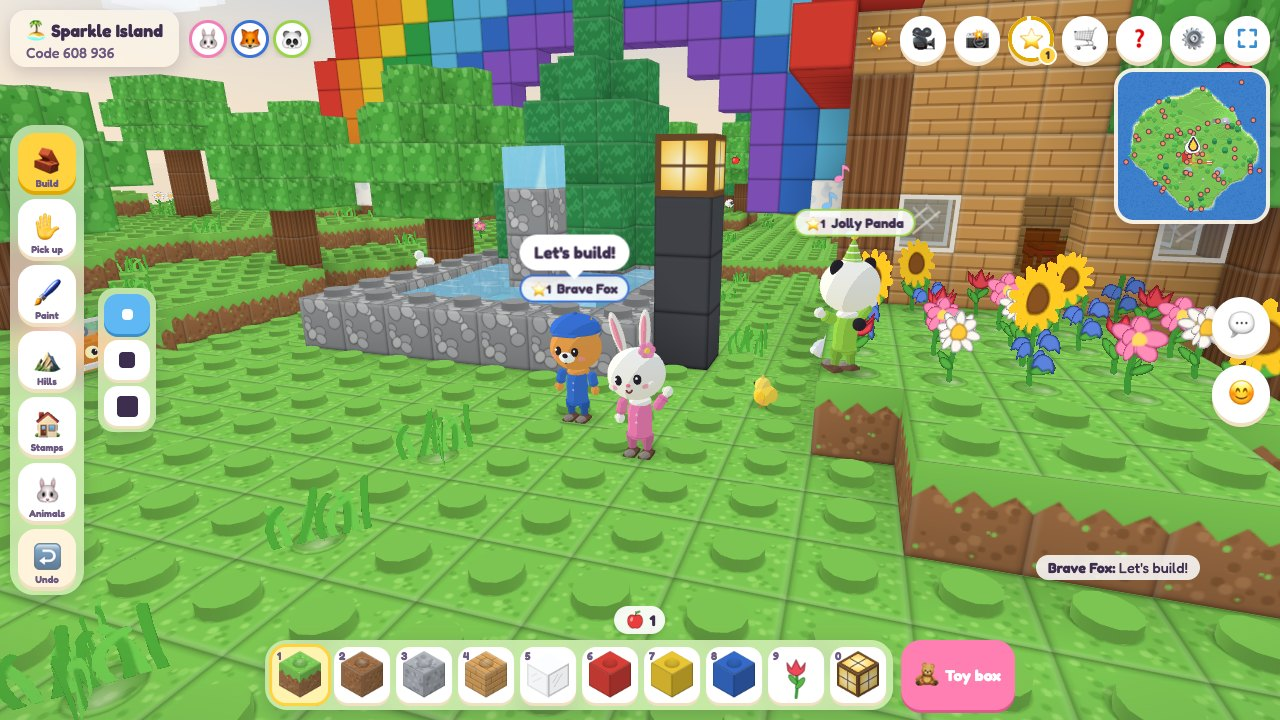
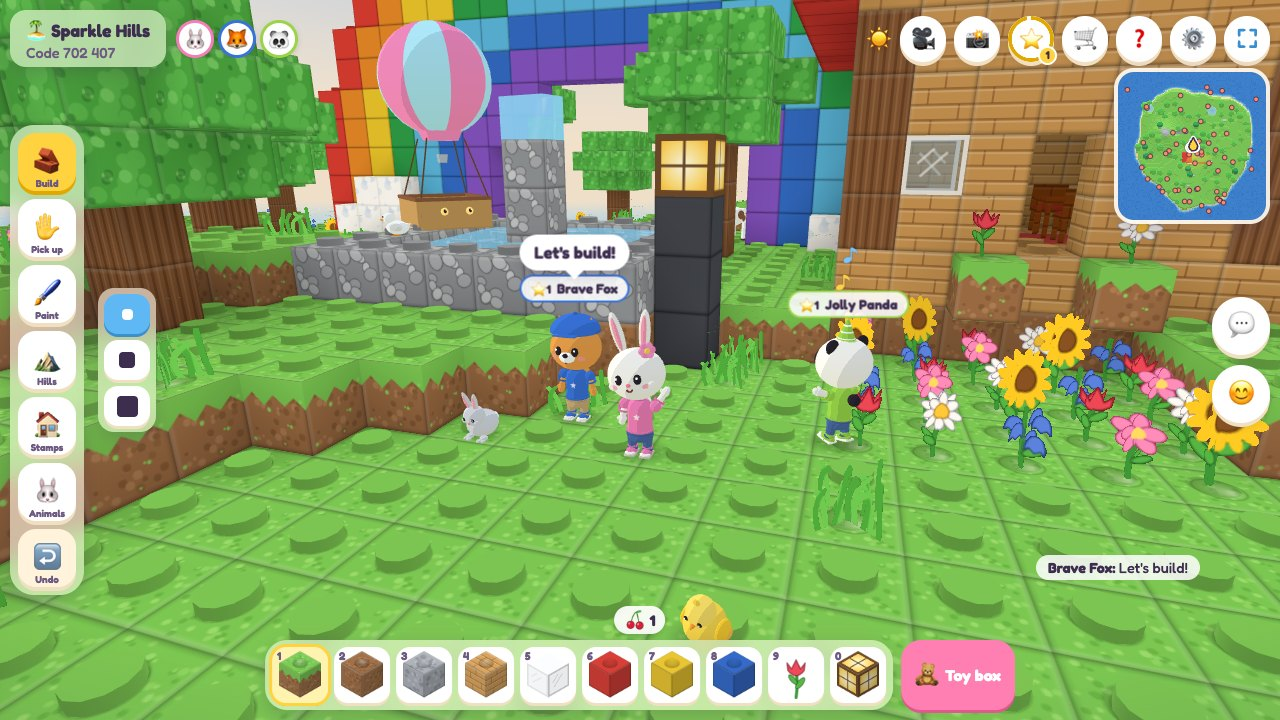
Dress the players in real outfits and sculpt their hair
Every player now wears a t-shirt over trousers instead of one-colour
pyjamas: jeans (sand-coloured under a blue shirt) with a waistband and
rolled cuffs, sneakers with a pale sole, a bright upper and laces, short
puffed sleeves on rounded shoulders, a ribbed collar, a star on the chest,
a neck, and chubby hands with fingers and a thumb.

Hair is one sculpted shell combed from the crown, with ridges running down
to a scalloped hairline and an edge that rolls under, instead of a smooth
helmet; long hair hangs behind in the same locks. The bob no longer wraps
its hem across the face, and the eyes and smile lie on the face rather
than poking out of it in profile.

diff --git a/public/js/render/avatar.js b/public/js/render/avatar.js
@@ -131,6 +131,56 @@ function darken(hex, k) {
   return `#${c.multiplyScalar(1 - k).getHexString()}`;
 }
 
+// Trousers that go with a shirt: blue jeans, or sand-coloured ones under a
+// shirt that is blue already.
+function trousersFor(shirt) {
+  const hsl = new THREE.Color(shirt).getHSL({});
+  const blue = hsl.h > 0.45 && hsl.h < 0.8 && hsl.s > 0.3;
+  if (blue || hsl.s < 0.15 && hsl.l < 0.4) return '#c9a877';
+  return '#4b67a1';
+}
+
+// Sneakers to match the shirt, red where the shirt is pale or dull.
+function shoeFor(shirt) {
+  const hsl = new THREE.Color(shirt).getHSL({});
+  return hsl.s < 0.3 || hsl.l > 0.8 ? '#e8453c' : darken(shirt, 0.08);
+}
+
+// A sneaker, its ground at y 0 and its toe toward +z: the sole with a bumper
+// round the toe, the upper, and the laces, each one shape for every shoe.
+const sneakerSole = () =>
+  bakeCached('sneaker-sole', [
+    { g: roundedBox(0.15, 0.04, 0.25, 0.018), m: new THREE.Matrix4().makeTranslation(0, 0.02, 0) },
+    { g: sphere(1, 16, 10), m: new THREE.Matrix4().makeTranslation(0, 0.042, 0.07).scale(new THREE.Vector3(0.072, 0.03, 0.06)) },
+  ]);
+const sneakerUpper = () =>
+  bakeCached('sneaker-upper', [
+    { g: sphere(1, 18, 12), m: new THREE.Matrix4().makeTranslation(0, 0.045, -0.005).scale(new THREE.Vector3(0.07, 0.055, 0.118)) },
+    { g: cylinder(0.058, 0.064, 0.05, 16), m: new THREE.Matrix4().makeTranslation(0, 0.085, -0.04) },
+    { g: torus(0.058, 0.012), m: new THREE.Matrix4().makeTranslation(0, 0.11, -0.04).multiply(new THREE.Matrix4().makeRotationX(Math.PI / 2)) },
+  ]);
+const sneakerLaces = () =>
+  bakeCached(
+    'sneaker-laces',
+    [0.035, 0.0, -0.025].map((z, i) => ({
+      g: capsule(0.008, 0.06, 3, 6),
+      m: new THREE.Matrix4().makeTranslation(0, 0.088 + i * 0.01 - (z > 0 ? 0.008 : 0), z).multiply(new THREE.Matrix4().makeRotationZ(Math.PI / 2)),
+    })),
+  );
+
+// A five-pointed star, a little thick, facing +z: the badge on a t-shirt.
+const starShape = () =>
+  geo('star-badge', () => {
+    const s = new THREE.Shape();
+    for (let i = 0; i < 10; i++) {
+      const a = Math.PI / 2 + (i * Math.PI) / 5;
+      const r = i % 2 ? 0.017 : 0.04;
+      if (i) s.lineTo(Math.cos(a) * r, Math.sin(a) * r);
+      else s.moveTo(Math.cos(a) * r, Math.sin(a) * r);
+    }
+    return new THREE.ExtrudeGeometry(s, { depth: 0.008, bevelEnabled: true, bevelThickness: 0.004, bevelSize: 0.004, bevelSegments: 2 });
+  });
+
 // A feature sitting on the face, pushed out along the head's surface.
 function onFace(fx, fy, out) {
   return onSurface(HR[0], HR[1], HR[2], fx, fy, out);
@@ -139,20 +189,20 @@ function onFace(fx, fy, out) {
 function eyes(head, style = 'dot') {
   const group = new THREE.Group();
   for (const side of [-1, 1]) {
-    const p = onFace(side * 0.12, 0.02, 0.005);
+    const p = onFace(side * 0.12, 0.02, style === 'big' ? -0.01 : 0.005);
     if (style === 'big') {
       // A big round eye: a white, an iris, a pupil and a catchlight, turned to face out.
       const eye = new THREE.Group();
       eye.position.set(p.x, p.y, p.z);
       eye.lookAt(p.clone().multiplyScalar(2));
-      eye.add(mesh(sphere(1, 18, 14), toon(WHITE), 0, 0, 0, 0.056, 0.072, 0.034));
-      const iris = mesh(sphere(1, 14, 10), toon(EYE), 0, -0.004, 0.016, 0.036, 0.05, 0.02);
+      eye.add(mesh(sphere(1, 18, 14), toon(WHITE), 0, 0, 0, 0.056, 0.072, 0.024));
+      const iris = mesh(sphere(1, 14, 10), toon(EYE), 0, -0.004, 0.01, 0.036, 0.05, 0.016);
       iris.userData.iris = true;
       eye.add(iris);
-      const pupil = mesh(sphere(1, 10, 8), toon(BLACK), 0, -0.006, 0.027, 0.02, 0.028, 0.011);
+      const pupil = mesh(sphere(1, 10, 8), toon(BLACK), 0, -0.006, 0.018, 0.02, 0.028, 0.01);
       pupil.userData.iris = true;
       eye.add(pupil);
-      eye.add(mesh(sphere(1, 8, 6), toon(WHITE, { emissive: 0.75 }), -0.013, 0.02, 0.028, 0.011, 0.014, 0.007));
+      eye.add(mesh(sphere(1, 8, 6), toon(WHITE, { emissive: 0.75 }), -0.013, 0.02, 0.026, 0.011, 0.014, 0.006));
       group.add(eye);
     } else {
       const eye = mesh(sphere(1, 16, 12), toon(BLACK), p.x, p.y, p.z, 0.048, 0.062, 0.03);
@@ -187,10 +237,11 @@ function blush(head) {
 }
 
 function smile(head, width = 0.05, y = -0.1) {
-  const p = onFace(0, y, 0.004);
+  const p = onFace(0, y, -0.004);
   const m = mesh(torus(width, 0.012, Math.PI), toon('#7a3b3b'), p.x, p.y, p.z);
   m.rotation.z = Math.PI;
-  m.rotation.x = -0.35;
+  // Leaning back with the chin, so it lies on the face rather than poking out.
+  m.rotation.x = 0.3;
   head.add(m);
   return m;
 }
@@ -516,6 +567,91 @@ function beard(head, color) {
   head.add(mesh(sphere(1, 16, 12), toon(color), chin.x, chin.y, chin.z, 0.13, 0.09, 0.08));
 }
 
+// Where hair stops going down the head, `turn` round from the face: over
+// the forehead at the front, lower round the sides and lowest at the back.
+const capLine = (turn) => {
+  const a = Math.abs(turn);
+  return a < 0.9 ? 0.95 : a < 1.8 ? 0.95 + (a - 0.9) * 0.75 : 1.62 + (a - 1.8) * 0.33;
+};
+const bobLine = (turn) => (Math.abs(turn) < 1.0 ? 0.95 : 2.12);
+const longLine = (turn) => (Math.abs(turn) < 1.0 ? 0.95 : 2.3);
+
+// Hair combed down from the crown, as one sculpted shell: ridges run from
+// the top of the head down to a hairline that dips into a soft point at the
+// end of each lock, and the edge rolls under so the hair has thickness.
+// line(turn) is how far down it reaches, `turn` round from the face.
+function combed(key, line, k = 1.06, ridges = 22) {
+  return geo(`combed|${key}|${k}`, () => {
+    const cols = ridges * 4;
+    const rows = 22;
+    const positions = [];
+    const index = [];
+    for (let i = 0; i <= cols; i++) {
+      const turn = (i / cols) * Math.PI * 2 - Math.PI;
+      const wave = Math.cos(turn * ridges);
+      const reach = line(turn) + 0.07 * wave;
+      for (let j = 0; j <= rows; j++) {
+        const v = j / rows;
+        const up = v * reach;
+        // Ridges grow from nothing at the crown; the last stretch rolls under.
+        const ridge = 0.03 * (0.5 + 0.5 * wave) * Math.min(1, up / 0.5);
+        const roll = v > 0.9 ? ((v - 0.9) / 0.1) ** 2 * 0.05 : 0;
+        const r = k * (1 + ridge - roll);
+        positions.push(Math.sin(up) * Math.sin(turn) * HR[0] * r, Math.cos(up) * HR[1] * r, Math.sin(up) * Math.cos(turn) * HR[2] * r);
+      }
+    }
+    for (let i = 0; i < cols; i++) {
+      for (let j = 0; j < rows; j++) {
+        const a = i * (rows + 1) + j;
+        const b = a + rows + 1;
+        index.push(a, a + 1, b, b, a + 1, b + 1);
+      }
+    }
+    const g = new THREE.BufferGeometry();
+    g.setAttribute('position', new THREE.Float32BufferAttribute(positions, 3));
+    g.setIndex(index);
+    g.computeVertexNormals();
+    return g;
+  });
+}
+
+// Long hair hanging down the back past the shoulders: a curtain in the same
+// ridged locks as the top, each ending in a soft point, its edges rolled in.
+const hairFall = () =>
+  geo('hair-fall', () => {
+    const cols = 48;
+    const rows = 14;
+    const spread = 1.25;
+    const positions = [];
+    const index = [];
+    for (let i = 0; i <= cols; i++) {
+      const u = i / cols;
+      const a = Math.PI - spread + u * spread * 2;
+      const wave = Math.cos((a - Math.PI) * 11);
+      const bottom = -0.58 - 0.045 * wave;
+      const edge = Math.min(u, 1 - u);
+      for (let j = 0; j <= rows; j++) {
+        const v = j / rows;
+        const y = -0.2 + (bottom + 0.2) * v;
+        const roll = (v > 0.85 ? ((v - 0.85) / 0.15) ** 2 * 0.035 : 0) + (edge < 0.08 ? ((0.08 - edge) / 0.08) ** 2 * 0.035 : 0);
+        const r = 0.272 + 0.035 * v + 0.012 * (0.5 + 0.5 * wave) * Math.min(1, v * 3) - roll;
+        positions.push(Math.sin(a) * r, y, Math.cos(a) * r);
+      }
+    }
+    for (let i = 0; i < cols; i++) {
+      for (let j = 0; j < rows; j++) {
+        const a = i * (rows + 1) + j;
+        const b = a + rows + 1;
+        index.push(a, b, a + 1, b, b + 1, a + 1);
+      }
+    }
+    const g = new THREE.BufferGeometry();
+    g.setAttribute('position', new THREE.Float32BufferAttribute(positions, 3));
+    g.setIndex(index);
+    g.computeVertexNormals();
+    return g;
+  });
+
 // A kid's hair. Returns the bunches and tails that swing as you move.
 function hair(head, style, color, hatKind) {
   const g = new THREE.Group();
@@ -528,8 +664,10 @@ function hair(head, style, color, hatKind) {
     return m;
   };
   const cover = (k, opts) => add(mesh(shell(k, opts), shellMat, 0, 0, 0, HEAD.sx, HEAD.sy, HEAD.sz));
-  // The top and the back, clear of the forehead.
-  const cap = () => cover(1.07, { thetaLength: 1.59, tilt: 0.6 });
+  // The top and the back, clear of the forehead, combed into locks.
+  const cap = () => {
+    add(mesh(combed('cap', capLine), shellMat));
+  };
   // A lock of hair lying flat over the forehead, rolled round in place.
   const lock = (fx, fy, sx, sy, roll = 0) => {
     const p = onFace(fx, fy, 0.014);
@@ -607,23 +745,14 @@ function hair(head, style, color, hatKind) {
     }
     case 'bob':
     case 'long': {
-      cap();
-      // Down the sides and the back, round the face.
-      cover(1.1, { phi: Math.PI / 2 + 0.85, phiLength: Math.PI * 2 - 1.7, theta: 0.9, thetaLength: style === 'bob' ? 1.25 : 1.45 });
+      // Down the sides and the back, round the face, to the jaw.
+      add(mesh(combed(style, style === 'bob' ? bobLine : longLine, 1.08), shellMat));
       for (const fx of [-0.18, -0.06, 0.06, 0.18]) lock(fx, 0.16, 0.08, 0.075);
-      if (style === 'bob') {
-        // The hem of the bob turns under, all the way round.
-        const hem = mesh(torus(0.29, 0.045, Math.PI * 2), mat, 0, -0.16, -0.01, HEAD.sx * 1.02, 1, 0.98);
-        hem.rotation.x = Math.PI / 2 + 0.08;
-        add(hem);
-      }
       if (style === 'long') {
         // On down the back, past the shoulders, with rounded edges.
         const fall = new THREE.Group();
         fall.scale.x = HEAD.sx;
-        fall.add(mesh(geo('hair-fall', () => new THREE.CylinderGeometry(0.266, 0.3, 0.3, 20, 1, true, Math.PI - 1.2, 2.4)), shellMat, 0, -0.4, 0));
-        fall.add(mesh(geo('hair-end', () => new THREE.TorusGeometry(0.27, 0.05, 8, 20, 2.4).rotateX(Math.PI / 2).rotateY(Math.PI / 2 + 1.2)), mat, 0, -0.55, 0));
-        for (const side of [-1, 1]) fall.add(mesh(capsule(0.05, 0.28), mat, side * Math.sin(1.2) * 0.25, -0.41, -Math.cos(1.2) * 0.25));
+        fall.add(mesh(hairFall(), shellMat));
         add(fall);
       }
       break;
@@ -900,65 +1029,112 @@ export class Avatar {
     this.body = body;
     this.root.add(body);
 
+    const frog = look.animal === 'frog';
+    const pants = frog ? fur : trousersFor(shirt);
+    const pantsMat = toon(pants);
+    const seam = toon(darken(pants, 0.18));
+    const shoeUpper = frog ? darken(fur, 0.1) : shoeFor(shirt);
     this.legs = [-1, 1].map((side) => {
       const leg = new THREE.Group();
       leg.position.set(side * 0.1, 0.28 + legLong, 0);
-      // Trouser legs, tapering to the ankle; a frog's legs are its skin.
-      const trouser = look.animal === 'frog' ? fur : darken(shirt, 0.35);
-      leg.add(mesh(cylinder(0.062, 0.05, 0.2 + legLong, 14), toon(trouser), 0, -0.1 - legLong / 2, 0));
-      // The shorts, a little wider, ending above the knee.
-      leg.add(mesh(cylinder(0.082, 0.075, 0.1, 14), toon(trouser), 0, -0.05 - legLong * 0.15, 0));
-      // A shoe: a rounded sole, a toe cap over it and a little heel behind.
-      const shoe = look.animal === 'frog' ? darken(fur, 0.1) : '#6b4a3a';
-      leg.add(mesh(roundedBox(0.17, 0.055, 0.27, 0.024), toon(shoe), 0, -0.265 - legLong, 0.035));
-      leg.add(mesh(sphere(1, 16, 12), toon(lighten(shoe, 0.18)), 0, -0.245 - legLong, 0.115, 0.072, 0.05, 0.075));
-      leg.add(mesh(sphere(1, 12, 8), toon(shoe), 0, -0.25 - legLong, -0.06, 0.06, 0.045, 0.05));
+      // A trouser leg from the hip down to the ankle, full at the thigh and
+      // narrowing to a rolled-up cuff; a frog's legs are its skin.
+      leg.add(
+        mesh(
+          lathe([
+            [0, -0.22 - legLong],
+            [0.054, -0.22 - legLong],
+            [0.058, -0.15 - legLong * 0.75],
+            [0.066, -0.06 - legLong * 0.3],
+            [0.08, 0.01],
+            [0.07, 0.05],
+            [0, 0.06],
+          ], 18),
+          pantsMat,
+        ),
+      );
+      if (!frog) leg.add(mesh(torus(0.056, 0.014), seam, 0, -0.205 - legLong, 0).rotateX(Math.PI / 2));
+      // A sneaker: a pale rubber sole with a bumper round the toe, a padded
+      // upper in a bright colour and laces across the top.
+      const y = -0.28 - legLong;
+      const sole = frog ? toon(darken(fur, 0.25)) : toon('#f6f1ea');
+      leg.add(mesh(sneakerSole(), sole, 0, y, 0.03));
+      leg.add(mesh(sneakerUpper(), toon(shoeUpper), 0, y, 0.03));
+      if (!frog) leg.add(mesh(sneakerLaces(), toon('#ffffff'), 0, y, 0.03));
       body.add(leg);
       return leg;
     });
     this.torso = new THREE.Group();
     this.torso.position.y = 0.28 + legLong;
     body.add(this.torso);
-    // A shirt with a shape of its own: shoulders, a waist, a hem that flares.
+    const wide = grown ? 1.08 : 1;
+    // The seat of the trousers, with a waistband, under the shirt.
     this.torso.add(
       mesh(
         lathe([
-          [0.015, -0.05],
-          [0.13, -0.05],
-          [0.16, 0.04],
-          [0.15, 0.12 + up * 0.4],
-          [0.158, 0.22 + up * 0.55],
-          [0.152, 0.32 + up * 0.75],
-          [0.135, 0.4 + up * 0.9],
-          [0.085, 0.46 + up],
-          [0.06, 0.5 + up],
+          [0, -0.08],
+          [0.13, -0.08],
+          [0.152, -0.04],
+          [0.156, 0.06],
+          [0, 0.06],
         ]),
-        toon(shirt),
+        pantsMat,
         0,
         0,
         0,
-        grown ? 1.08 : 1,
+        wide,
         1,
         0.85,
       ),
     );
-    // A hem band at the bottom of the shirt, and two little buttons down the front.
-    this.torso.add(mesh(torus(0.148, 0.016), toon(darken(shirt, 0.22)), 0, 0.0, 0, grown ? 1.08 : 1, 1, 0.85).rotateX(Math.PI / 2));
-    this.torso.add(mesh(sphere(1, 10, 8), toon(lighten(shirt, 0.4)), 0, 0.3 + up * 0.7, 0.128, 0.016));
-    this.torso.add(mesh(sphere(1, 10, 8), toon(lighten(shirt, 0.4)), 0, 0.2 + up * 0.55, 0.14, 0.016));
-    // A little collar in the fur colour, so the head sits nicely.
-    this.torso.add(mesh(sphere(), toon(fur), 0, 0.44 + up, 0, 0.14, 0.06, 0.12));
+    if (!frog) this.torso.add(mesh(torus(0.154, 0.015), seam, 0, 0.035, 0, wide, 1, 0.85).rotateX(Math.PI / 2));
+    // A t-shirt with a shape of its own: a chest, square shoulders, and a hem
+    // that sits out over the trousers.
+    this.torso.add(
+      mesh(
+        lathe([
+          [0.02, 0.05],
+          [0.152, 0.05],
+          [0.166, 0.08],
+          [0.158, 0.16 + up * 0.45],
+          [0.162, 0.26 + up * 0.6],
+          [0.158, 0.36 + up * 0.8],
+          [0.142, 0.42 + up * 0.93],
+          [0.1, 0.465 + up],
+          [0.06, 0.49 + up],
+        ], 28),
+        toon(shirt),
+        0,
+        0,
+        0,
+        wide,
+        1,
+        0.85,
+      ),
+    );
+    // A hem band, a ribbed collar round the neck, and a star on the chest.
+    this.torso.add(mesh(torus(0.163, 0.014), toon(darken(shirt, 0.16)), 0, 0.065, 0, wide, 1, 0.85).rotateX(Math.PI / 2));
+    this.torso.add(mesh(torus(0.068, 0.017), toon(darken(shirt, 0.18)), 0, 0.47 + up, 0.005, 1, 1, 0.9).rotateX(Math.PI / 2 - 0.12));
+    const badge = mesh(starShape(), toon(lighten(shirt, 0.65)), 0, 0.27 + up * 0.62, 0.133);
+    badge.rotation.x = -0.1;
+    this.torso.add(badge);
+    // A neck in the fur colour, so the head sits nicely.
+    this.torso.add(mesh(cylinder(0.056, 0.062, 0.08, 14), toon(fur), 0, 0.48 + up, 0));
     this.arms = [-1, 1].map((side) => {
       const arm = new THREE.Group();
-      arm.position.set(side * (grown ? 0.245 : 0.23), 0.4 + up, 0);
+      arm.position.set(side * (grown ? 0.215 : 0.2), 0.39 + up, 0);
       arm.rotation.z = side * 0.18;
-      // A sleeve to past the elbow, a cuff, and a bare forearm to the hand.
-      arm.add(mesh(capsule(0.066, 0.1 + armLong), toon(shirt), 0, -0.06 - armLong / 2, 0));
-      arm.add(mesh(torus(0.058, 0.014), toon(darken(shirt, 0.18)), 0, -0.12 - armLong, 0).rotateX(Math.PI / 2));
-      arm.add(mesh(cylinder(0.045, 0.04, 0.08, 12), toon(fur), 0, -0.17 - armLong, 0));
-      // A mitten hand with a thumb at the side.
-      arm.add(mesh(sphere(1, 16, 12), toon(fur), 0, -0.225 - armLong, 0, 0.062, 0.068, 0.055));
-      arm.add(mesh(sphere(1, 10, 8), toon(fur), side * 0.052, -0.215 - armLong, 0.012, 0.024, 0.034, 0.024));
+      // A rounded shoulder that melts into the shirt, a short sleeve opening
+      // out to a hem, then a bare arm down to the hand.
+      arm.add(mesh(sphere(1, 16, 12), toon(shirt), 0, 0, 0, 0.074, 0.07, 0.07));
+      arm.add(mesh(lathe([[0.072, 0], [0.075, -0.05], [0.07, -0.095], [0.045, -0.1], [0, -0.1]], 16), toon(shirt)));
+      arm.add(mesh(torus(0.064, 0.013), toon(darken(shirt, 0.16)), 0, -0.092, 0).rotateX(Math.PI / 2));
+      arm.add(mesh(capsule(0.042, 0.08 + armLong), toon(fur), 0, -0.14 - armLong / 2, 0));
+      // A chubby hand: a palm, four fingers together and a thumb.
+      const hy = -0.215 - armLong;
+      arm.add(mesh(sphere(1, 16, 12), toon(fur), 0, hy, 0, 0.056, 0.058, 0.048));
+      arm.add(mesh(capsule(0.04, 0.02), toon(fur), 0, hy - 0.035, 0.004, 1.15, 1, 0.9));
+      arm.add(mesh(capsule(0.017, 0.022), toon(fur), side * 0.05, hy + 0.005, 0.016).rotateZ(side * 0.5));
       this.torso.add(arm);
       return arm;
     });
